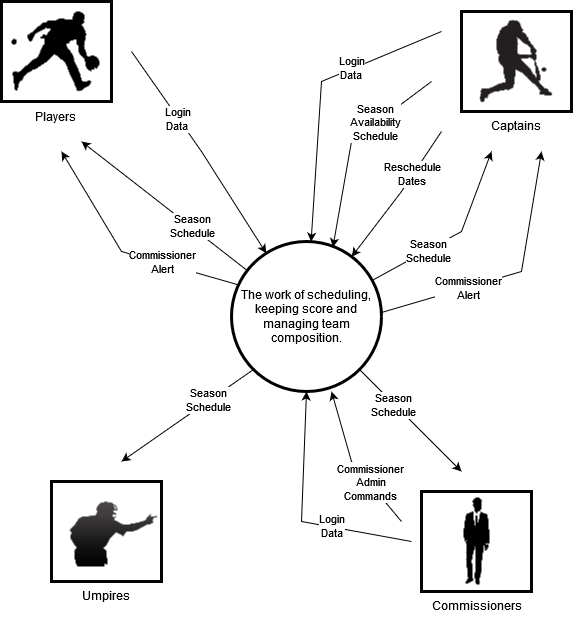
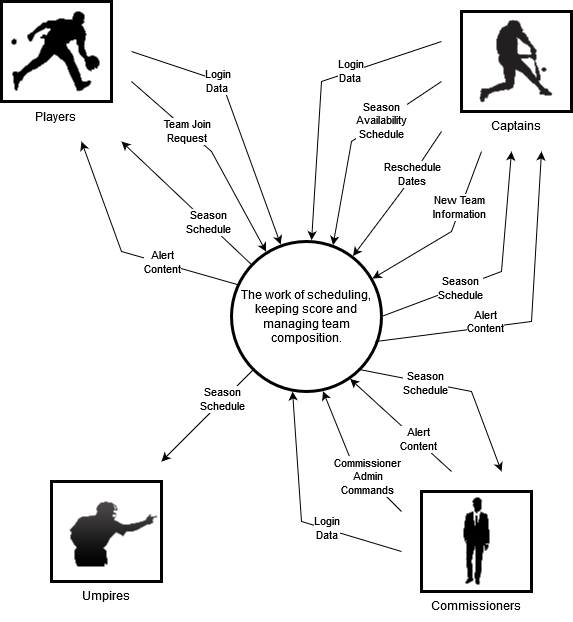
Updated 6b and 6c.

diff --git a/docs/SRS-Volere/SRS.tex b/docs/SRS-Volere/SRS.tex
@@ -13,6 +13,7 @@
 \usepackage[dvipsnames]{xcolor}
 \usepackage{enumitem}
 \usepackage{tcolorbox}
+\usepackage{array}
 
 \hypersetup{
     bookmarks=true,         % show bookmarks bar?
@@ -101,7 +102,7 @@ desired need for an upgrade to an outdated website.
 \subsection{Goals of the Project}
 Our goals with the project are to recreate everything the current website
 solution does, with a better user interface and a more stable foundation, so
-that future site admins and league commisioners don't have to deal with the
+that future site admins and league commissioners don't have to deal with the
 solution breaking or captains/players not understanding how to use the tool.
 We also plan to add features such as player accounts to help players view
 their schedules, and a standings viewer to see league scores.
@@ -185,14 +186,47 @@ It is important to note that we will not be using the existing solution other
 than as a feature guide. The current solution is hosted on the web and is
 written in PHP. The current login system does not use a username and password.
 Only captains can log in, and they are emailed an ASCII code which they use to
-access the website to schedule games and submit scores. Commisioners can login
+access the website to schedule games and submit scores. Commissioners can login
 in the same way as captains and can modify schedules, scores and team
 compositions as needed. Currently the standings functionality, which would
 allow users to view the scores of played games, is not working.
 \subsection{The Context of the Work}
 \includegraphics[scale=0.6]{6b_context_diagram.png}
 \subsection{Work Partitioning}
-Event list
+  \begin{center}
+    \begin{tabular}{|m{4cm}|m{4cm}|m{6cm}|}
+      \hline
+      Event Name & Input and Output & Summary of BUC\\
+      \hline
+      1. User logs in & Login Data (in) & A player, captain or commissioner
+      enters their username and password and the system grants them access to
+      their account.\\
+      2. Captain creates a team & New Team Information (in) & At the
+      start of the season, captains can enter team information such as a team
+      name. This registers a new team.\\
+      2. Player requests to join a team & Team Join Request (in) & At the
+      start of the season, players are not assigned to a team and must request
+      to join one.\\
+      3. Season starts and availability entered & Season Availability Schedule
+      (in) & Record the team captain's entered availability schedule. This
+      will be used to generate the league schedule.\\
+      4. Reschedule request entered & Reschedule Dates (in) & Record
+      availability dates the requesting captain entered as alternates for the
+      planned date.\\
+      5. Reschedule request recieved & Reschedule Dates (out) & Send the dates
+      the captain who sent the request submit to the other team's captain.\\
+      6. User navigates to schedule section & Season Schedule (out) & Display
+      stored season schedule (if available) to site user.\\
+      7. User submits alert & Alert Content (in) & Commissioners can submit custom
+      alerts to send to any chosen users.\\
+      8. System sends alert & Alert Content (out) & Send the alert to any user the
+      alert must reach.\\
+      9. Commissioner inputs admin command & Commissioner Admin Commands (in)
+      & Commissioners have the ability to overwrite team composition and
+      schedule.\\
+      \hline
+    \end{tabular}
+  \end{center}
 \subsection{Specifying a Business Use Case (BUC)}
 \lips
 
